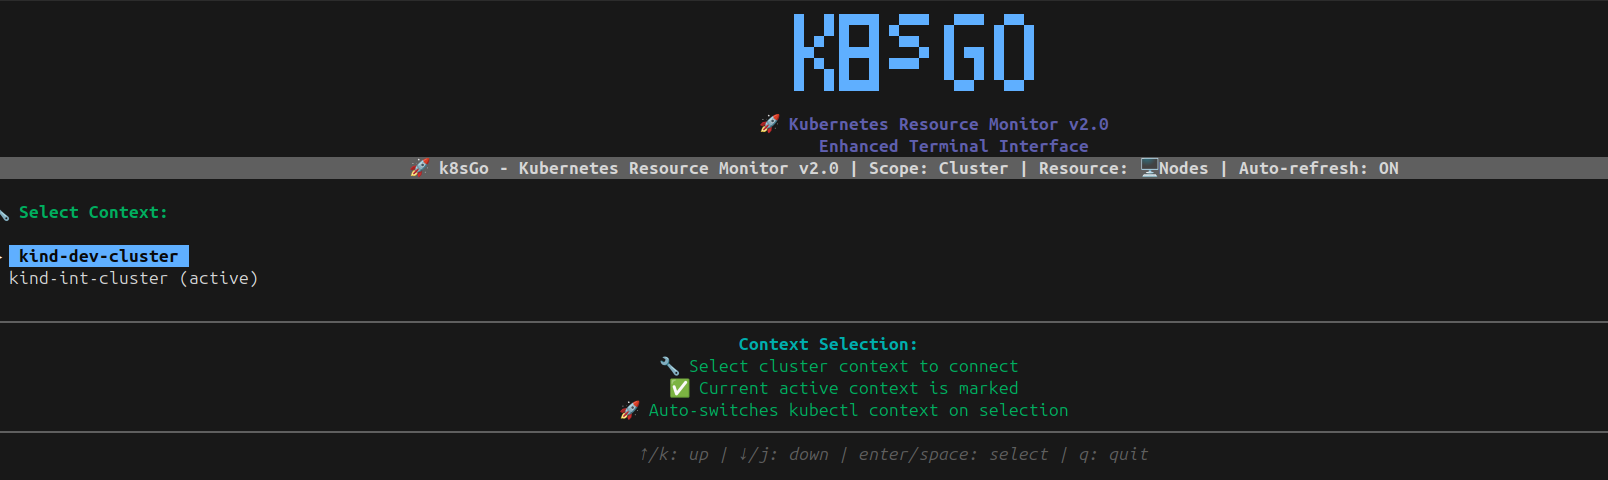
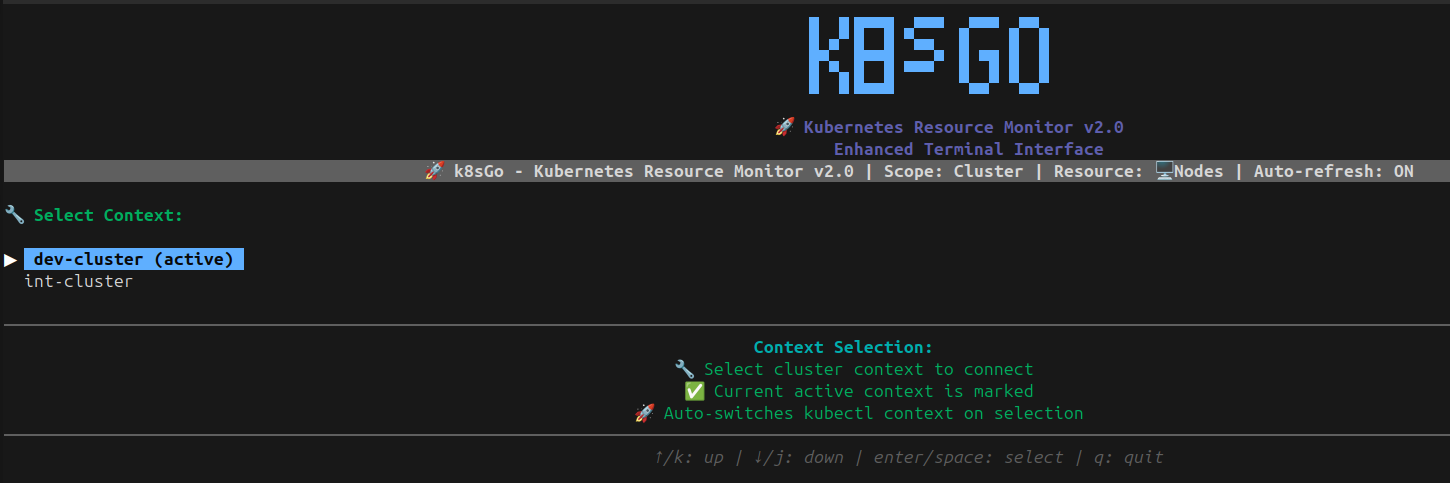
updated screenshots

diff --git a/README.md b/README.md
@@ -11,7 +11,6 @@ A modern Terminal User Interface (TUI) for monitoring Kubernetes and OpenShift c
 
 ## ✨ Features
 
-- 🎨 **Beautiful ASCII Banner** with Unicode characters
 - 🔄 **Context Switching** - Switch between multiple Kubernetes contexts
 - 📊 **Multi-Frame Layout** - Resources, Logs, and Events in separate frames
 - 🌐 **Dual Support** - Works with both Kubernetes and OpenShift clusters
@@ -20,6 +19,7 @@ A modern Terminal User Interface (TUI) for monitoring Kubernetes and OpenShift c
 - 📋 **Event Tracking** - View events related to selected resources
 - 🎨 **Professional Color Scheme** - Easy on the eyes with dark theme
 
+
 ## 🚀 Quick Start
 
 ### Prerequisites
@@ -27,16 +27,14 @@ A modern Terminal User Interface (TUI) for monitoring Kubernetes and OpenShift c
 - Go 1.19 or later
 - Access to a Kubernetes/OpenShift cluster
 - `kubectl` configured with cluster access
+- make sure /kubeconfig accessible from $home
 
 ### Installation
 
 ```bash
 # Clone the repository
 git clone <repository-url>
-cd k8s-monitor
-
-# Build the application
-go build -o k8sgo k8sgo.go
+cd k8sGO
 
 # Run k8sGo
 ./k8sgo
@@ -44,9 +42,20 @@ go build -o k8sgo k8sgo.go
 
 ### Screenshots
 ![Home](img/image.png)
+
 ![resources1](img/resources1.png)
+
 ![resources2](img/resources2.png)
+
 ![resources3](img/resources3.png)
+
+![resources4](resources4.png)
+
+![resources5](resources5.png)
+
+![resources6](resources6.png)
+
+
 ### First Run
 
 1. **Start the application**: `./k8sgo`
@@ -81,12 +90,11 @@ go build -o k8sgo k8sgo.go
 - **`r`** - Refresh current frame
 - **`q`** - Go back to resource selection
 
-## 🏗 Architecture
+## 🏗 Tool Overview
 
-### Frame Layout
 ```
 ┌─────────────────────────────────────────────────────────────┐
-│                        k8sGo Banner                         │
+│                        k8sGo                          │
 ├─────────────────┬─────────────────┬─────────────────────────┤
 │   Resources     │      Logs       │        Events           │
 │                 │                 │                         │
@@ -127,8 +135,8 @@ export KUBECONFIG=/path/to/your/kubeconfig
 If you have multiple contexts configured, k8sGo will show a selection screen:
 ```
 Select Kubernetes Context:
-▶ kind-dev-cluster (active)
-  kind-int-cluster  
+▶ dev-cluster (active)
+  int-cluster  
   production-cluster
 ```
 
